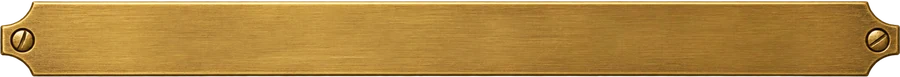
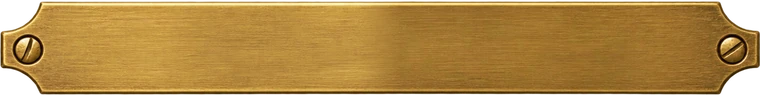
feat(concert-grand): the subtitle plate is shorter and its engraving larger
At 11.76:1 the plate read as a rule with writing on it, and 11.5px of text
across that much brass was a caption rather than an engraving.

Its middle is brushed brass with nothing in it, so a third of the length came
out and the two ends were spliced back over an eighty-pixel crossfade: both
screws and both notched ends survive, there is no seam, and at 8:1 the plate
has the height to carry 13px.

diff --git a/plugins/concert-grand/package/web/play.html b/plugins/concert-grand/package/web/play.html
@@ -611,7 +611,12 @@
          the outer 4% at each end, which is what the padding leaves clear. */
       .masthead p {
         width: min(430px, 84vw);
-        aspect-ratio: 2105 / 179;
+        /* The plate came 11.76:1, which read as a rule with writing on it. Its
+           middle is brushed brass with nothing in it, so a third of that was
+           taken out and the two ends spliced back together over a crossfade --
+           both screws and both notched ends survive, and at 8:1 the brass has
+           enough height for the engraving to be worth reading. */
+        aspect-ratio: 8 / 1;
         margin: 7px auto 0;
         display: flex;
         align-items: center;
@@ -623,8 +628,8 @@
         color: var(--engraved);
         text-shadow: 0 1px 0 rgba(255, 238, 205, 0.4);
         font-style: italic;
-        font-size: 11.5px;
-        letter-spacing: 0.04em;
+        font-size: 13px;
+        letter-spacing: 0.05em;
         white-space: nowrap;
         overflow: hidden;
       }
